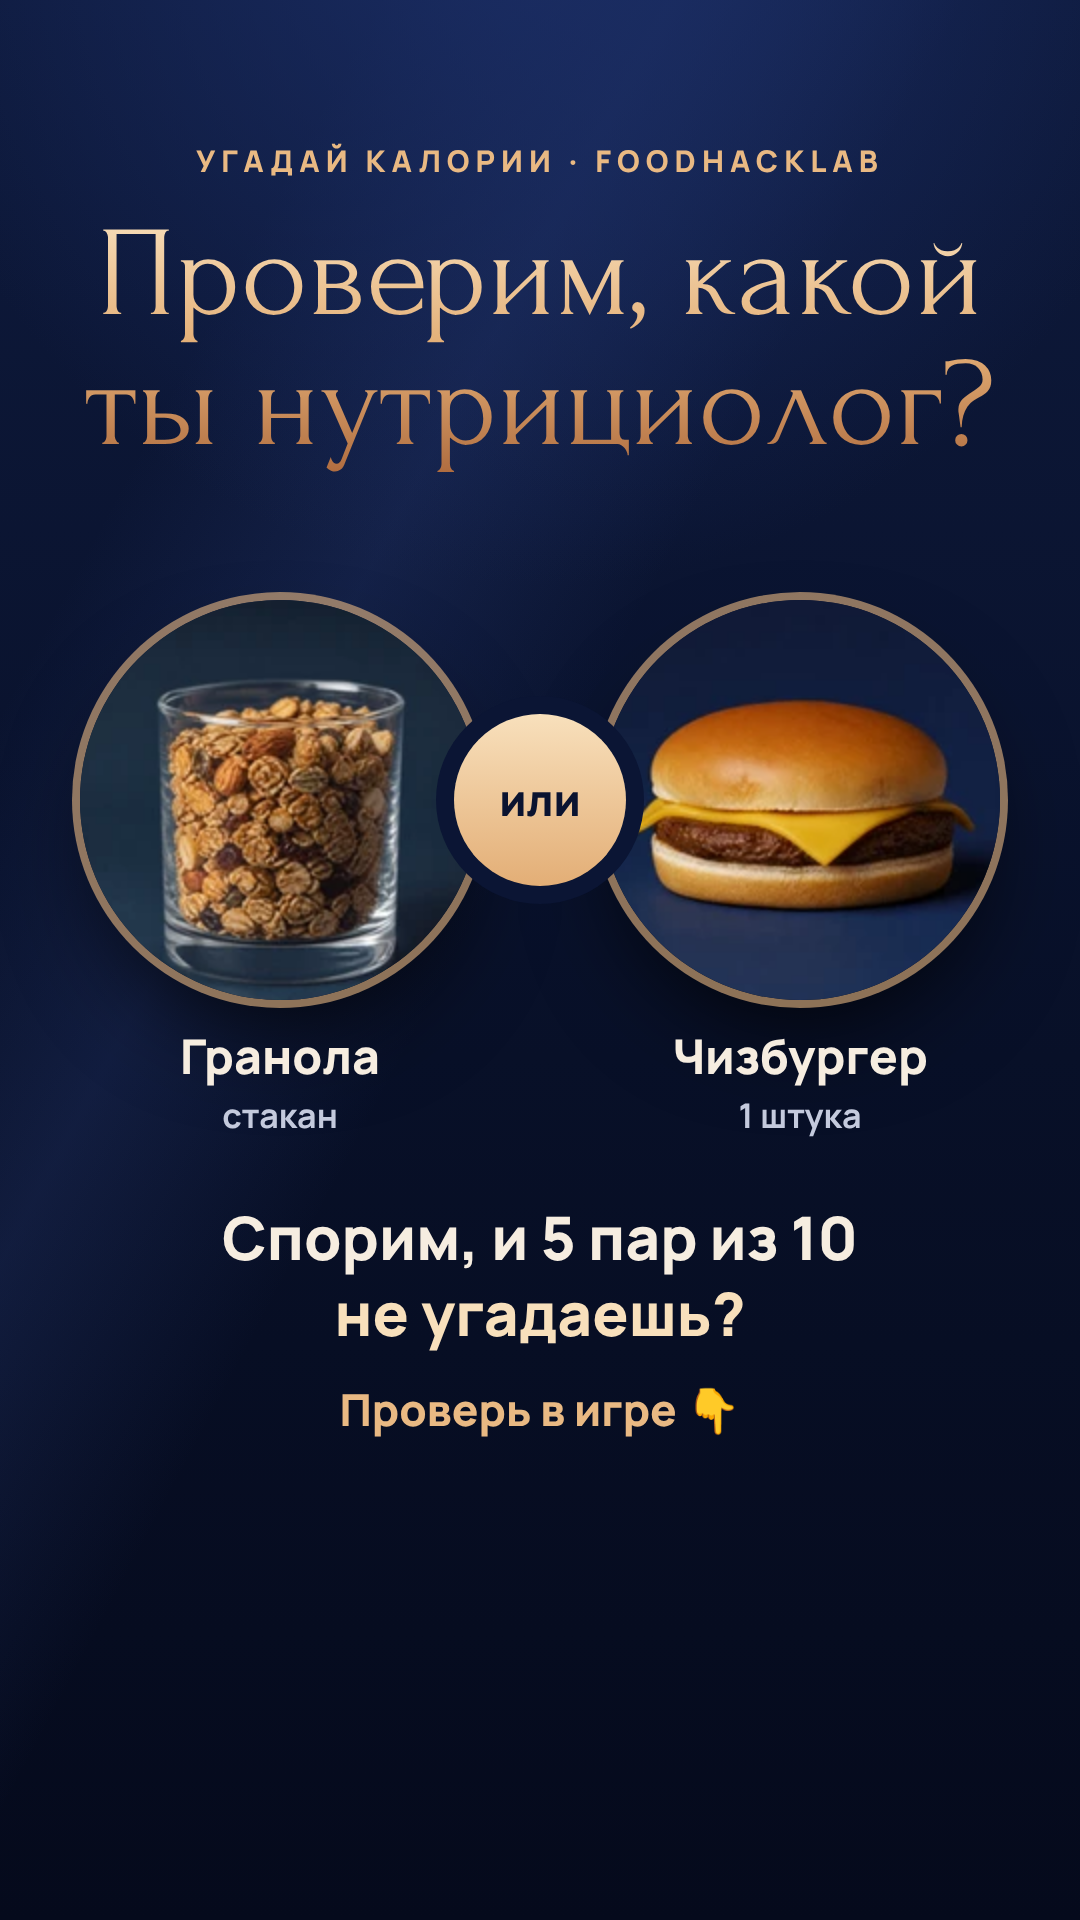
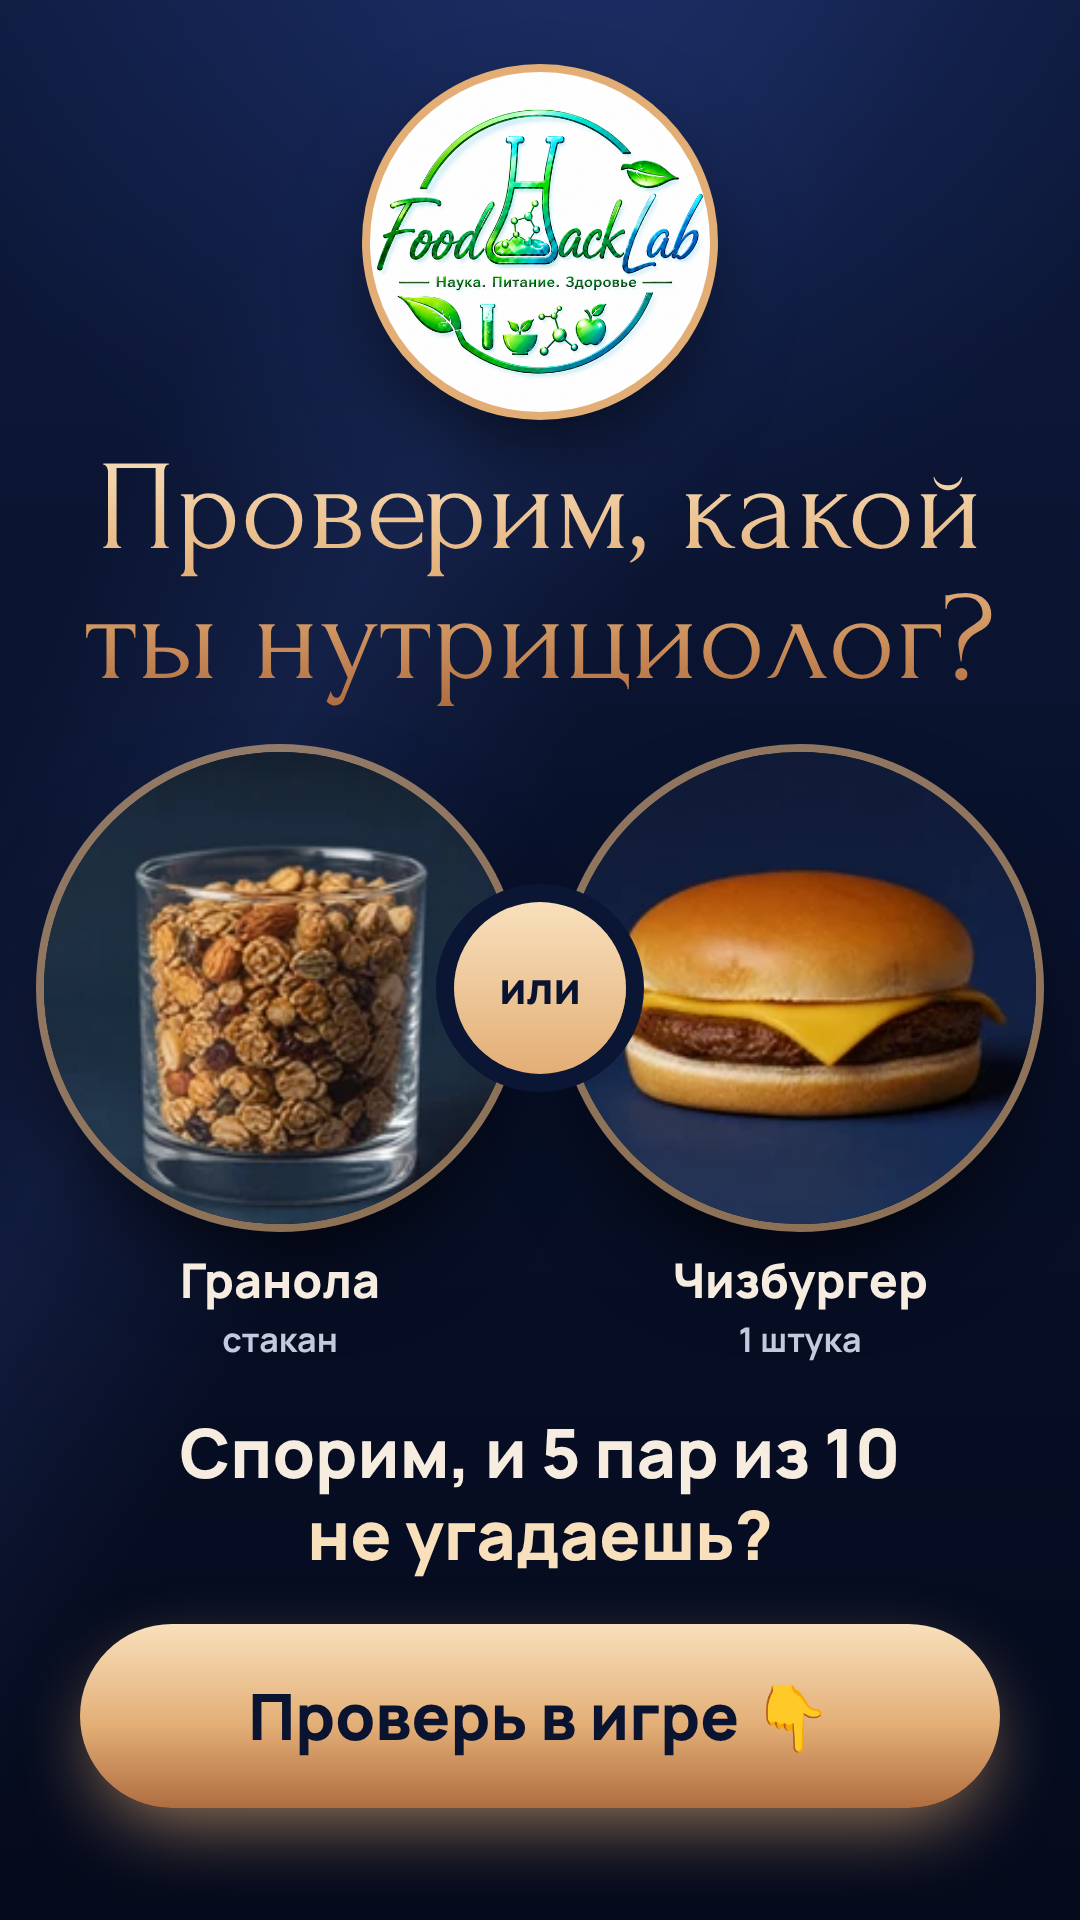
Сторис на весь экран с настоящим логотипом
Claude-Session: https://claude.ai/code/session_01X9BYRhxD9B6uD4tJz2gB84

diff --git a/promo/story.html b/promo/story.html
@@ -7,7 +7,7 @@
 <style>
 /* Сторис 540×960 CSS-пикселей, снимается с масштабом 2 → 1080×1920.
    ?v=a — вызов как в ролике, место под стикер-ссылку; ?v=b — крупный вопрос, место под стикер-опрос.
-   Нижние ~200px оставлены пустыми под стикеры и интерфейс сторис. */
+   Вариант A заполняет весь кадр; у B внизу место под стикеры. */
 *{box-sizing:border-box;margin:0}
 html,body{width:540px;height:960px;overflow:hidden}
 body{color:#F6EDE0;font-family:Manrope,sans-serif;
@@ -19,11 +19,13 @@ body{color:#F6EDE0;font-family:Manrope,sans-serif;
 .or{position:absolute;width:86px;height:86px;border-radius:50%;display:grid;place-items:center;background:linear-gradient(180deg,#F8E0BC,#E3AE76);color:#0A1330;font:800 22px Manrope;box-shadow:0 0 0 9px #0B1534}
 .lbl{position:absolute;text-align:center;font:800 24px/1.15 Manrope}
 .lbl small{display:block;font:700 17px Manrope;color:#C4CADD;margin-top:4px}
-/* A */
-#a .t1{position:absolute;top:105px;left:20px;right:20px;text-align:center;font:400 64px/1.02 Forum,serif}
-#a .t2{position:absolute;top:600px;left:20px;right:20px;text-align:center;font:800 30px/1.25 Manrope}
+/* A — на весь экран */
+#a .logo{position:absolute;top:36px;left:50%;width:170px;height:170px;margin-left:-85px;border-radius:50%;background:#fff;box-shadow:0 0 0 4px #E3AE76,0 20px 50px -12px rgba(0,0,0,.85)}
+#a .t1{position:absolute;top:222px;left:16px;right:16px;text-align:center;font:400 64px/1.02 Forum,serif}
+#a .t2{position:absolute;top:706px;left:16px;right:16px;text-align:center;font:800 34px/1.22 Manrope}
 #a .t2 b{color:#F8E0BC}
-#a .cta{position:absolute;top:690px;left:0;right:0;text-align:center;font:800 22px Manrope;color:#E9B983}
+#a .btn{position:absolute;top:812px;left:40px;right:40px;height:92px;border-radius:99px;display:grid;place-items:center;font:800 32px Manrope;color:#0A1330;
+  background:linear-gradient(180deg,#F8E0BC,#E3AE76 55%,#B06D40);box-shadow:0 14px 40px -10px rgba(227,174,118,.75)}
 /* B */
 #b .t1{position:absolute;top:100px;left:20px;right:20px;text-align:center;font:400 92px/1 Forum,serif}
 #b .t2{position:absolute;top:640px;left:30px;right:30px;text-align:center;font:800 24px/1.3 Manrope;color:#C4CADD}
@@ -32,15 +34,15 @@ body{color:#F6EDE0;font-family:Manrope,sans-serif;
 </head>
 <body>
 <div class="v" id="a">
-  <div class="eb">УГАДАЙ КАЛОРИИ · FOODHACKLAB</div>
+  <img class="logo" src="img/logo.png" alt="FoodHackLab">
   <div class="t1 gold">Проверим, какой ты нутрициолог?</div>
-  <img class="ph" src="img/granola.webp" style="left:40px;top:300px;width:200px;height:200px">
-  <img class="ph" src="img/burger.webp" style="left:300px;top:300px;width:200px;height:200px">
-  <div class="or" style="left:227px;top:357px">или</div>
-  <div class="lbl" style="left:20px;width:240px;top:514px">Гранола<small>стакан</small></div>
-  <div class="lbl" style="left:280px;width:240px;top:514px">Чизбургер<small>1 штука</small></div>
+  <img class="ph" src="img/granola.webp" style="left:22px;top:376px;width:236px;height:236px">
+  <img class="ph" src="img/burger.webp" style="left:282px;top:376px;width:236px;height:236px">
+  <div class="or" style="left:227px;top:451px">или</div>
+  <div class="lbl" style="left:10px;width:260px;top:626px">Гранола<small>стакан</small></div>
+  <div class="lbl" style="left:270px;width:260px;top:626px">Чизбургер<small>1 штука</small></div>
   <div class="t2">Спорим, и 5 пар из 10<br><b>не угадаешь?</b></div>
-  <div class="cta">Проверь в игре 👇</div>
+  <div class="btn">Проверь в игре 👇</div>
 </div>
 <div class="v" id="b">
   <div class="eb">УГАДАЙ КАЛОРИИ · FOODHACKLAB</div>
